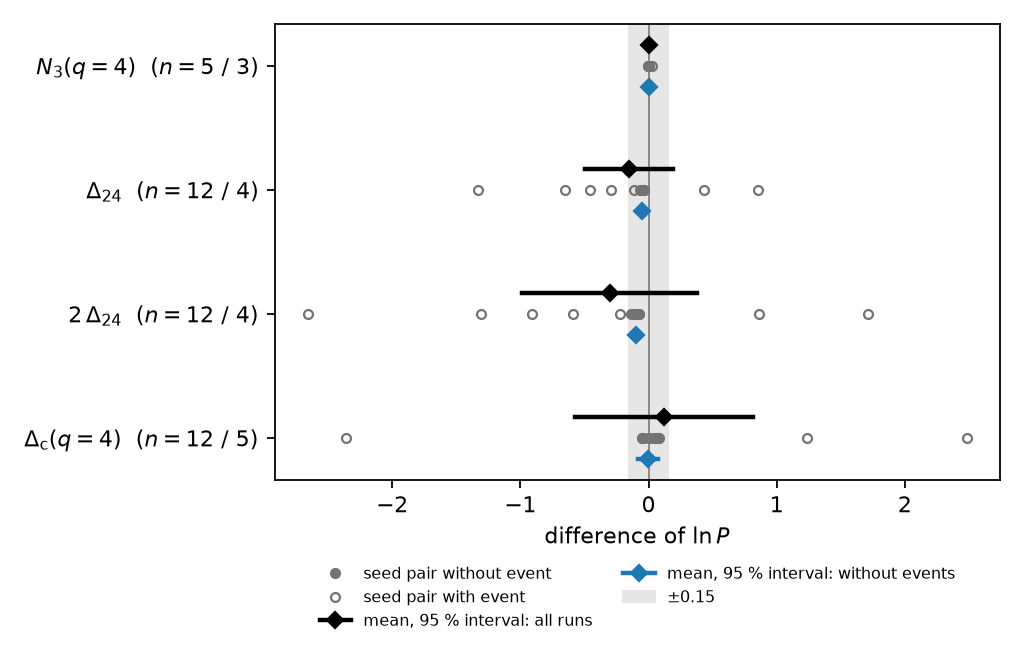
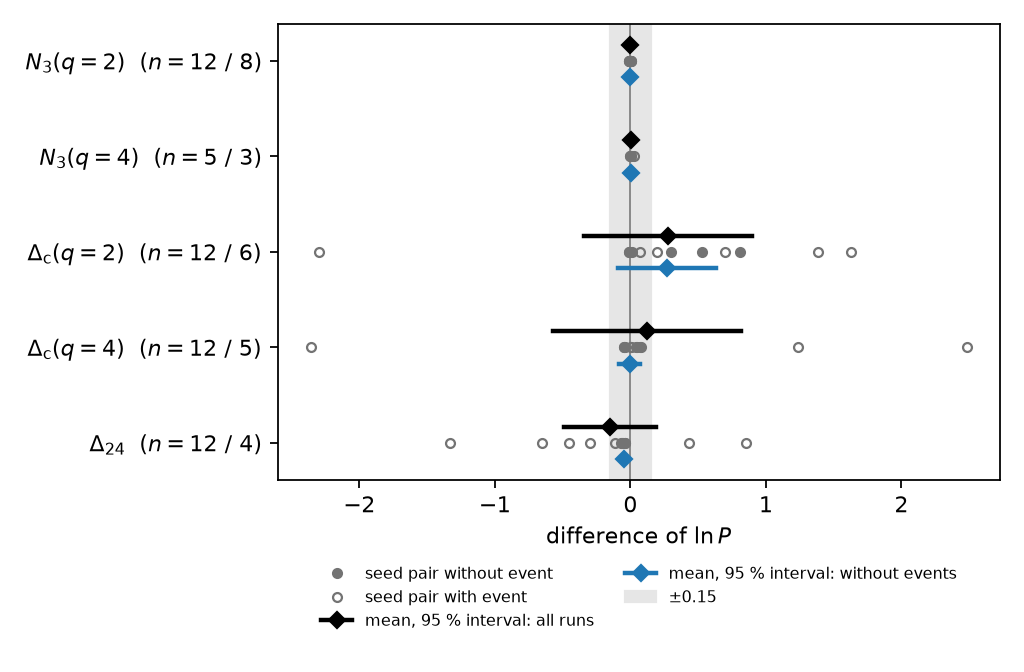
staircase: q plot with N3 and Δ_c at q 2 and q 4 (PROTOKOLL 3.31)

diff --git a/studies/staircase_correction/plot_events_compare.py b/studies/staircase_correction/plot_events_compare.py
@@ -6,8 +6,10 @@ of both sets are next to each other in each row. Information only: the exclusion
 
     python plot_events_compare.py --all results/dynamic_B.json --noevents results/dynamic_B_noevents.json \
         --plot results/proofs_B_compare.png
-    python plot_events_compare.py --set Q --all results/qseries_dyn_all.json --noevents results/qseries_dyn.json \
-        --plot results/proofs_Q_compare.png
+    python plot_events_compare.py --set Q --all results/dynamic_B.json results/qseries_dyn_all.json \
+        --noevents results/dynamic_B_noevents.json results/qseries_dyn.json --plot results/proofs_Q_compare.png
+With --set Q the rows are the effects that have the same meaning at q 2 and q 4 (N3, Δ_c), and the step Δ_24; N1 and
+Δ_g do not depend on q, m and total need a fine reference with the roughness of q 4 (not computed).
 """
 import argparse
 import json
@@ -21,22 +23,27 @@ from matplotlib.patches import Patch  # noqa: E402
 
 SETS = {"B": (["N1", "N3", "Δ_g", "Δ_c", "m", "total"],
                [r"$N_1$", r"$N_3$", r"$\Delta_\mathrm{g}$", r"$\Delta_\mathrm{c}$", r"$m$", "total"]),
-        "Q": (["N3(q 4)", "Δ_24", "2 Δ_24", "Δ_c(4)"],
-              [r"$N_3(q = 4)$", r"$\Delta_{24}$", r"$2\,\Delta_{24}$", r"$\Delta_\mathrm{c}(q = 4)$"])}
+        "Q": (["N3", "N3(q 4)", "Δ_c", "Δ_c(4)", "Δ_24"],
+              [r"$N_3(q = 2)$", r"$N_3(q = 4)$", r"$\Delta_\mathrm{c}(q = 2)$", r"$\Delta_\mathrm{c}(q = 4)$",
+               r"$\Delta_{24}$"])}
 
 
 def main():
     ap = argparse.ArgumentParser()
-    ap.add_argument("--all", required=True, help="JSON of eval_dynamic.py with all runs")
-    ap.add_argument("--noevents", required=True, help="JSON of eval_dynamic.py --exclude_events")
+    ap.add_argument("--all", nargs="+", required=True, help="JSON of eval_dynamic.py (or eval_qseries.py) with all runs")
+    ap.add_argument("--noevents", nargs="+", required=True, help="JSON of eval_dynamic.py --exclude_events (or "
+                    "eval_qseries.py), in the same order")
     ap.add_argument("--plot", required=True)
     ap.add_argument("--set", default="B", choices=sorted(SETS), help="B: design B (eval_dynamic.py); Q: series in q "
                     "(eval_qseries.py)")
     a = ap.parse_args()
     KEYS, LABELS = SETS[a.set]
-    sec = "proofs" if a.set == "B" else "effects"
-    full = json.loads(pathlib.Path(a.all).read_text())[sec]
-    free = json.loads(pathlib.Path(a.noevents).read_text())[sec]
+    full, free = {}, {}
+    for dst, files in ((full, a.all), (free, a.noevents)):
+        for f in files:
+            d = json.loads(pathlib.Path(f).read_text())
+            dst.update(d.get("proofs", {}))                    # eval_dynamic.py
+            dst.update(d.get("effects", {}))                   # eval_qseries.py
     fig, ax = plt.subplots(figsize=(6.4, 4.2))
     ax.axvspan(-0.15, 0.15, color="0.9", zorder=0)
     ax.axvline(0.0, color="0.5", lw=0.8)

diff --git a/studies/staircase_correction/PROTOKOLL.md b/studies/staircase_correction/PROTOKOLL.md
@@ -1796,6 +1796,11 @@ Request of Chris: the plot of 3.28 (all runs against event-free pairs) also for 
 and .json; plot_events_compare.py --set Q → results/proofs_Q_compare.png. Checks: proofs_B_compare.png and
 qseries_dyn.md are the same as before the change (md5, diff).
 
+Remark of Chris: the first plot showed other quantities than at q 2. Only N3 and Δ_c have the same meaning at q 2 and
+q 4; N1 and Δ_g contain no q run (the same values as at q 2); m and total need a fine reference with the roughness of
+q 4 (Fine on 2.5-nm cells, not computed; D15 has the roughness of q 2). The plot now shows N3 and Δ_c at q 2 and q 4
+and Δ_24, each with all runs and with the event-free pairs.
+
 | effect | all runs: mean ± SE (n) | 95 % interval | event-free pairs: mean ± SE (n) |
 |---|---|---|---|
 | N3(q 4) | +0.0054 ± 0.0046 (5) | −0.008 … +0.018 | +0.0013 ± 0.0010 (3) |
